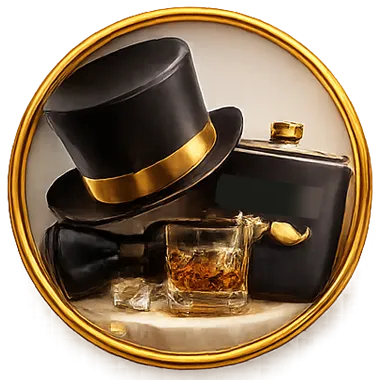
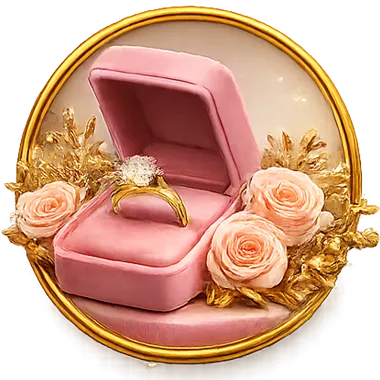
fix: groom/bride name clipping in invitation section (was missed earlier)
lineHeight:1 with no padding clipped serif descenders/ascenders (g, y).
Matches the fix already applied to HeroSection.

diff --git a/components/sections/InvitationSection.tsx b/components/sections/InvitationSection.tsx
@@ -51,7 +51,7 @@ export default function InvitationSection() {
               <line x1="160" y1="6" x2="280" y2="6" stroke="var(--color-accent)" strokeWidth="0.6" opacity="0.3" />
             </svg>
 
-            <h3 className="shimmer-text font-display" style={{ fontSize: 'clamp(2.5rem, 7vw, 4.5rem)', lineHeight: 1 }}>
+            <h3 className="shimmer-text font-display" style={{ fontSize: 'clamp(2.2rem, 6vw, 3.7rem)', lineHeight: 1.2, padding: '0.1em 0' }}>
               {weddingData.groomName}
             </h3>
             {weddingData.groomParents && (
@@ -60,7 +60,7 @@ export default function InvitationSection() {
               </p>
             )}
             <p className="font-serif italic text-xl mt-2 mb-2" style={{ color: 'var(--color-accent)', opacity: 0.65 }}>&amp;</p>
-            <h3 className="shimmer-text font-display" style={{ fontSize: 'clamp(2.5rem, 7vw, 4.5rem)', lineHeight: 1 }}>
+            <h3 className="shimmer-text font-display" style={{ fontSize: 'clamp(2.2rem, 6vw, 3.7rem)', lineHeight: 1.2, padding: '0.1em 0' }}>
               {weddingData.brideName}
             </h3>
             {weddingData.brideParents && (